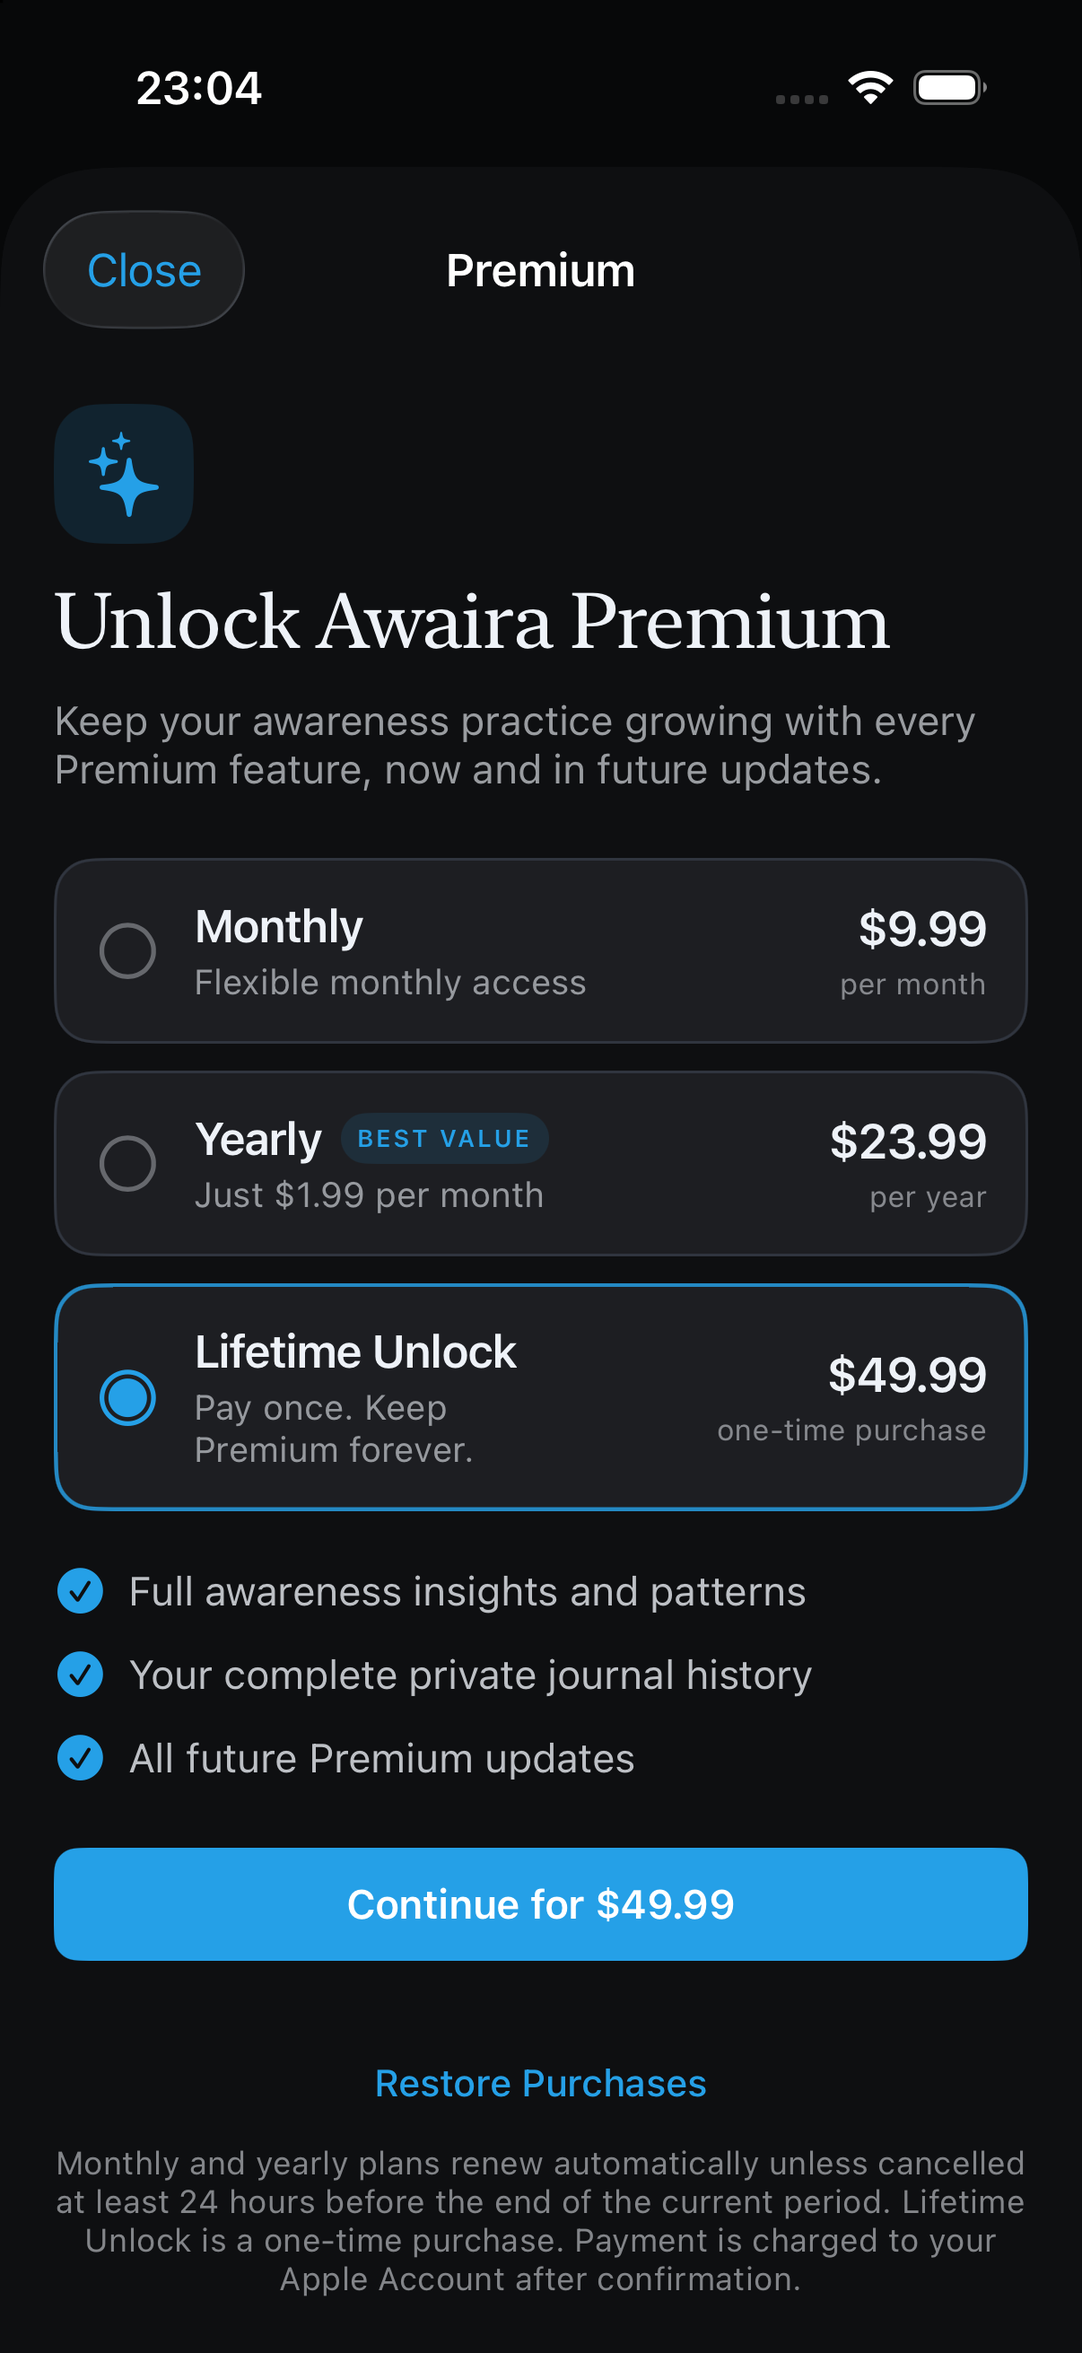
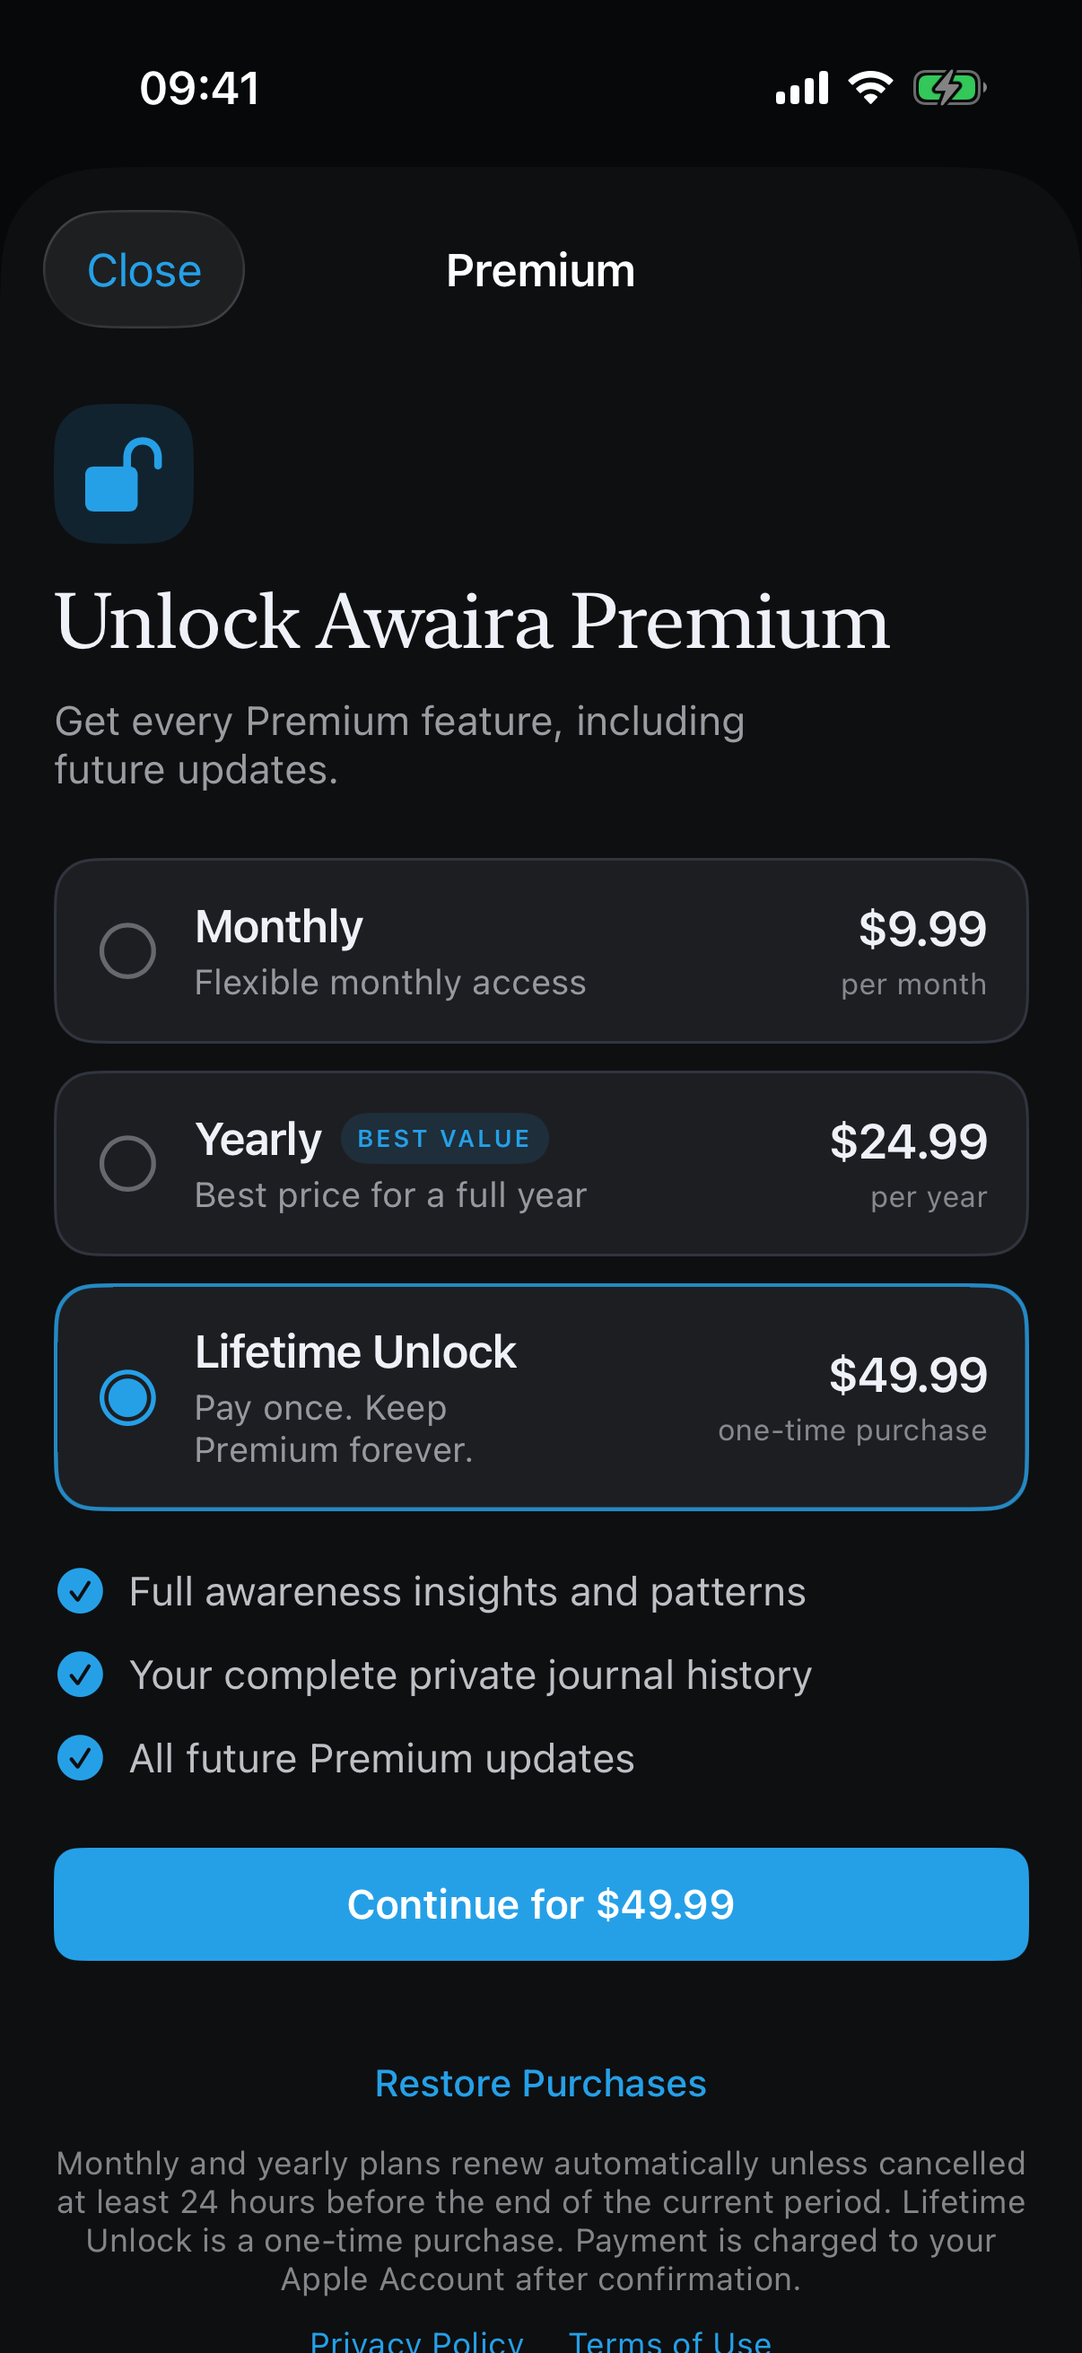
deploy: 2.2.6-ca4feed2 2026-09-24 17:47

diff --git a/Sources/IPhoneOnboardingView.swift b/Sources/IPhoneOnboardingView.swift
@@ -139,10 +139,10 @@ struct IPhoneOnboardingView: View {
 
     private var nudgePage: some View {
         VStack(alignment: .leading, spacing: 18) {
-            stepTitle("Pick your gentle nudge", helper: "Choose any combination. Awaira only uses the options you check, and you can change them at any time in Settings.")
+            stepTitle("Choose your cues", helper: "Choose any combination. Awaira only uses the options you check, and you can change them at any time in Settings.")
             nudgeToggle(symbol: "iphone.radiowaves.left.and.right", title: "Vibrate", detail: "Buzz while a hand stays near your face.", color: .orange, isOn: $vibrateEnabled)
             nudgeToggle(symbol: "waveform", title: "Voice", detail: "Play the same soft calming tone used in the desktop app.", color: .purple, isOn: $voiceEnabled)
-            nudgeToggle(symbol: "rectangle.on.rectangle", title: "Blur screen", detail: "Soften the screen with an encouraging cue while Awaira is open.", color: .mint, isOn: $blurEnabled)
+            nudgeToggle(symbol: "rectangle.on.rectangle", title: "Blur screen", detail: "Dim the screen briefly while Awaira is open.", color: .mint, isOn: $blurEnabled)
         }
         .padding(.top, 30)
     }
@@ -343,21 +343,21 @@ private struct OnboardingQuestion {
 
 private let onboardingSteps: [OnboardingStep] = {
     let pages: [EducationPage] = [
-        .init(symbol: "hand.raised.fill", accent: .indigo, title: "Notice a moment sooner.", body: "Awaira notices hand-to-face movements while you work, study, read, or watch videos. It cannot tell why a movement happened or label it."),
-        .init(symbol: "eye.fill", accent: .mint, title: "An optional moment of awareness.", body: "A calm cue can make a hand-to-face movement easier to notice. You choose which cues to use and can change them at any time."),
-        .init(symbol: "brain.head.profile", accent: .orange, title: "No judgement, no diagnosis.", body: "A movement is just a movement. Awaira does not diagnose a condition or decide what you intended to do."),
-        .init(symbol: "chart.line.uptrend.xyaxis", accent: .green, title: "Private patterns, if you want them.", body: "Your on-device history can help you reflect on the moments you choose to notice. It is not a score or a measure of your health."),
-        .init(symbol: "arrow.uturn.backward.circle.fill", accent: .cyan, title: "Here's what happens, step by step.", body: "You reach up. Awaira notices. A gentle visual cue appears—not a blocker, not an alarm. You lower your hand and carry on."),
-        .init(symbol: "hand.point.up.left.fill", accent: .yellow, title: "A movement is just a movement.", body: "Thinking, resting your chin, scratching an itch, and adjusting glasses are all normal. A cue is only an invitation to notice, never a judgement or health conclusion."),
+        .init(symbol: "hand.raised.fill", accent: .indigo, title: "Notice a moment sooner.", body: "Awaira notices hand to face movements while you work, study, read, or watch videos. It cannot tell why a movement happened or label it."),
+        .init(symbol: "eye.fill", accent: .mint, title: "Optional cues.", body: "A calm cue can make a hand to face movement easier to notice. You choose which cues to use and can change them at any time."),
+        .init(symbol: "brain.head.profile", accent: .orange, title: "Awaira doesn't diagnose.", body: "A movement is just a movement. Awaira does not diagnose a condition or decide what you intended to do."),
+        .init(symbol: "chart.line.uptrend.xyaxis", accent: .green, title: "Your history stays private.", body: "Your on-device history can help you reflect on the moments you choose to notice. It is not a score or a measure of your health."),
+        .init(symbol: "arrow.uturn.backward.circle.fill", accent: .cyan, title: "How it works", body: "When your hand moves toward your face, Awaira shows a short visual cue. Lower your hand and carry on."),
+        .init(symbol: "hand.point.up.left.fill", accent: .yellow, title: "Most touches are normal.", body: "Thinking, resting your chin, scratching an itch, and adjusting glasses are all normal. A cue just helps you notice. It isn't a judgement or a health conclusion."),
         // The permission sentence names the camera on purpose: the detection checks a few screens
         // later ask for it, and a promise made here that the flow then breaks is worse than no
         // promise at all. What has not changed is the part that matters — nothing leaves the phone.
-        .init(symbol: "lock.shield.fill", accent: .blue, title: "Privacy isn't a feature here—it's the whole design.", body: "Camera frames, detections, selected behavior, and progress history are not uploaded. Detection runs on this iPhone, even without an internet connection. In a moment Awaira will ask for the camera, so you can watch detection work before you decide anything.")
+        .init(symbol: "lock.shield.fill", accent: .blue, title: "Everything stays on your iPhone.", body: "Camera frames, detections, selected behavior, and progress history are not uploaded. Detection runs on this iPhone, even without an internet connection. In a moment Awaira will ask for the camera, so you can watch detection work before you decide anything.")
     ]
     let questions: [OnboardingQuestion] = [
-        .init(key: "behaviors", title: "What would you like to notice?", helper: "Awaira notices hand-to-face motion, not a behaviour or diagnosis.", footer: nil, options: ["Movement toward hair", "Movement toward nails", "Movement toward face or skin", "General hand-to-face awareness"], multiple: true, accent: .indigo),
+        .init(key: "behaviors", title: "What would you like to notice?", helper: "Awaira notices hand to face motion, not a behaviour or diagnosis.", footer: nil, options: ["Movement toward hair", "Movement toward nails", "Movement toward face or skin", "General hand to face awareness"], multiple: true, accent: .indigo),
         .init(key: "frequencyEstimate", title: "What's your best guess?", helper: "How many times a day does this roughly happen? Don't overthink it.", footer: nil, options: ["A few times", "Around 10–30", "Around 30–100", "More than 100", "I honestly don't know"], multiple: false, accent: .mint),
-        .init(key: "contexts", title: "When does it happen most?", helper: "We'll use this to show when you're most vulnerable to automatic habits.", footer: nil, options: ["Working on computer", "During meetings", "While coding", "While thinking", "Studying", "Watching videos", "Reading", "Gaming", "During stress", "During boredom"], multiple: true, accent: .orange),
+        .init(key: "contexts", title: "When does it happen most?", helper: "We'll use this to show when it happens most.", footer: nil, options: ["Working on computer", "During meetings", "While coding", "While thinking", "Studying", "Watching videos", "Reading", "Gaming", "During stress", "During boredom"], multiple: true, accent: .orange),
         .init(key: "goal", title: "What would feel useful?", helper: "", footer: nil, options: ["Notice patterns", "Take a pause", "Choose a cue", "Keep a private reflection"], multiple: false, accent: .purple)
     ]
     // The four checks go last before the cue picker: by then the person knows what Awaira watches

diff --git a/Sources/MobileDetectionCheck.swift b/Sources/MobileDetectionCheck.swift
@@ -6,7 +6,7 @@ import UIKit
 ///
 /// They sit at the end of onboarding, just before the cue picker: see yourself found, make the
 /// movement on purpose and watch it register, feel and hear the alert, then a summary. Choosing a
-/// cue is a blind choice otherwise — nobody has yet seen a hand-to-face movement register.
+/// cue is a blind choice otherwise — nobody has yet seen a hand to face movement register.
 ///
 /// This is the one place the camera is shown back. Nothing these screens see is recorded: the
 /// detector runs in `calibrating` mode for the whole of the rest of onboarding, so a rehearsed
@@ -97,7 +97,7 @@ struct MobileDetectionCheckView: View {
     private var title: String {
         switch page {
         case .camera:   return "Let's test detection"
-        case .movement: return "Try a hand-to-face movement"
+        case .movement: return "Try a hand to face movement"
         case .alert:    return "Test the alert"
         case .summary:  return "You're ready!"
         }
@@ -106,11 +106,11 @@ struct MobileDetectionCheckView: View {
     private var subtitle: String {
         switch page {
         case .camera:
-            return "Awaira watches for hand movements towards your face — chin, mouth, hair, nose. This takes a few seconds."
+            return "Awaira watches for hand movements towards your chin, mouth, hair, or nose. This takes a few seconds."
         case .movement:
-            return "Now move your hand towards your face — touch your chin or mouth, for example. Awaira should detect it."
+            return "Now move your hand towards your face, for example to your chin or mouth. Awaira should detect it."
         case .alert:
-            return "When a hand-to-face movement is detected, Awaira can nudge you with a short sound and a buzz."
+            return "When a hand to face movement is detected, Awaira can nudge you with a short sound and a buzz."
         case .summary:
             return "Here's what's working. Next, pick the cues you want Awaira to use."
         }
@@ -166,7 +166,7 @@ struct MobileDetectionCheckView: View {
             .offset(x: rect.minX, y: rect.minY)
 
         if caught {
-            Label("Hand-to-face detected", systemImage: "exclamationmark.circle.fill")
+            Label("Hand to face detected", systemImage: "exclamationmark.circle.fill")
                 .font(.caption2.weight(.semibold))
                 .foregroundStyle(.white)
                 .padding(.horizontal, 9)
@@ -201,7 +201,7 @@ struct MobileDetectionCheckView: View {
 
     private var bubble: some View {
         VStack {
-            Label("Hey, keep going 💙", systemImage: "speaker.wave.2.fill")
+            Label("Keep going", systemImage: "speaker.wave.2.fill")
                 .font(.footnote.weight(.semibold))
                 .foregroundStyle(.black)
                 .padding(.horizontal, 14)
@@ -330,7 +330,7 @@ struct MobileDetectionCheckView: View {
                 Text(title)
                     .font(.body.weight(.semibold))
                     .foregroundStyle(passed ? .primary : .secondary)
-                Text(passed ? done : "Not tested — you can continue anyway")
+                Text(passed ? done : "Not tested. You can continue anyway.")
                     .font(.footnote)
                     .foregroundStyle(.secondary)
             }

diff --git a/Sources/PremiumPaywallView.swift b/Sources/PremiumPaywallView.swift
@@ -94,7 +94,7 @@ struct PremiumPaywallView: View {
 
     private var hero: some View {
         VStack(alignment: .leading, spacing: 11) {
-            Image(systemName: "sparkles")
+            Image(systemName: "lock.open.fill")
                 .font(.system(size: 28, weight: .semibold))
                 .foregroundStyle(AwairaPalette.accent)
                 .frame(width: 52, height: 52)
@@ -103,7 +103,7 @@ struct PremiumPaywallView: View {
             Text("Unlock Awaira Premium")
                 .awairaDisplay(29)
                 .foregroundStyle(AwairaPalette.text)
-            Text("Keep your awareness practice growing with every Premium feature, now and in future updates.")
+            Text("Get every Premium feature, including future updates.")
                 .awairaCaption(15)
                 .foregroundStyle(AwairaPalette.ink.opacity(0.62))
                 .fixedSize(horizontal: false, vertical: true)
@@ -231,7 +231,7 @@ private struct PremiumPlan: Identifiable {
                                      reviewPrice: "$9.99", period: "per month", badge: nil)
     static let yearly = PremiumPlan(id: PremiumStore.yearlyProductID,
                                     title: "Yearly", detail: "Best price for a full year",
-                                    reviewPrice: "$23.99", period: "per year", badge: "BEST VALUE")
+                                    reviewPrice: "$24.99", period: "per year", badge: "BEST VALUE")
     static let lifetime = PremiumPlan(id: PremiumStore.lifetimeProductID,
                                       title: "Lifetime Unlock", detail: "Pay once. Keep Premium forever.",
                                       reviewPrice: "$49.99", period: "one-time purchase", badge: nil)

diff --git a/Tests/AwairaUITests/StoreScreenshotCaptureTests.swift b/Tests/AwairaUITests/StoreScreenshotCaptureTests.swift
@@ -13,13 +13,18 @@ final class StoreScreenshotCaptureTests: XCTestCase {
         capture(app, named: "03-learn-demo")
     }
 
-    func testCaptureLifetimeUnlockReviewScreen() {
-        let app = XCUIApplication()
-        app.launchArguments = ["-UITest", "-ScreenshotPaywall"]
-        app.launch()
+    /// One App Review image per product, each showing the genuine paywall with that plan selected.
+    func testCapturePremiumReviewScreens() {
+        let plans = [("Monthly", "-ScreenshotMonthly"), ("Yearly", nil), ("Lifetime", "-ScreenshotLifetime")]
+        for (name, argument) in plans {
+            let app = XCUIApplication()
+            app.launchArguments = ["-UITest", "-ScreenshotPaywall"] + [argument].compactMap { $0 }
+            app.launch()
 
-        XCTAssertTrue(app.otherElements["premiumPaywall"].waitForExistence(timeout: 3))
-        capture(app, named: "04-lifetime-unlock-review")
+            XCTAssertTrue(app.otherElements["premiumPaywall"].waitForExistence(timeout: 3))
+            capture(app, named: "Awaira-\(name)-review")
+            app.terminate()
+        }
     }
 
     private func capture(_ app: XCUIApplication, named: String) {

diff --git a/Sources/MobileJournal.swift b/Sources/MobileJournal.swift
@@ -58,7 +58,7 @@ struct MobileJournalView: View {
 
     var body: some View {
         MobilePage(title: "Journal",
-                   subtitle: "A private place to notice what matters.",
+                   subtitle: "Private notes about your day.",
                    accessory: AnyView(MobileBrandRow { composeButton })) {
             reflectionPrompt
             privacyNote
@@ -122,7 +122,7 @@ struct MobileJournalView: View {
             MobileEyebrow(text: "RECENT REFLECTIONS")
                 .padding(.top, 7)
             if groups.isEmpty {
-                MobileEmptyNote(text: "Your private moments will appear here when you choose to capture them.",
+                MobileEmptyNote(text: "Your entries will appear here.",
                                 symbol: "square.and.pencil")
                     .awairaCard(padding: 18)
             } else {

diff --git a/Sources/MobileInsightsView.swift b/Sources/MobileInsightsView.swift
@@ -11,7 +11,7 @@ struct MobileInsightsView: View {
 
     var body: some View {
         MobilePage(title: "Patterns",
-                   subtitle: "Your week, brought into focus.",
+                   subtitle: "Your week at a glance.",
                    titleSize: 32,
                    accessory: AnyView(brandRow)) {
             MobileSegmented(options: PatternRange.allCases, selection: $range, label: \.title, compact: true)
@@ -257,7 +257,7 @@ struct MobileInsightsView: View {
     }
 
     private var rhythmNote: String {
-        guard let peak = peakHour else { return "As your days fill in, this curve will show when activity tends to gather." }
+        guard let peak = peakHour else { return "After a few days of tracking, this chart will show your busiest hours." }
         return "Activity peaks around \(Self.hourText(peak))."
     }
 

diff --git a/Sources/PremiumStore.swift b/Sources/PremiumStore.swift
@@ -19,9 +19,9 @@ final class PremiumStore: ObservableObject {
     }
 
     static let monthlyProductID = productID(for: "AwairaMonthlyProductID",
-                                             fallback: "com.awaira.ios.premium.monthly")
+                                             fallback: "com.awaira.ios.sub.monthly")
     static let yearlyProductID = productID(for: "AwairaYearlyProductID",
-                                            fallback: "com.awaira.ios.premium.yearly")
+                                            fallback: "com.awaira.ios.sub.yearly")
     static let lifetimeProductID = productID(for: "AwairaLifetimeProductID",
                                               fallback: "com.awaira.app.lifetime")
     static let productIDs = [monthlyProductID, yearlyProductID, lifetimeProductID]

diff --git a/Sources/MobileSettingsView.swift b/Sources/MobileSettingsView.swift
@@ -69,7 +69,7 @@ struct MobileSettingsView: View {
                             showingPremiumPaywall = true
                         } label: {
                             HStack {
-                                Label("Unlock Awaira Premium", systemImage: "sparkles")
+                                Label("Unlock Awaira Premium", systemImage: "lock.open.fill")
                                 Spacer()
                                 Image(systemName: "chevron.right")
                                     .scaledFont(13, weight: .semibold)

diff --git a/Sources/MobileAchievementsView.swift b/Sources/MobileAchievementsView.swift
@@ -12,7 +12,7 @@ struct MobileAchievementsView: View {
 
     var body: some View {
         MobilePage(title: "Badges",
-                   subtitle: "A private record of awareness and progress — never a leaderboard.",
+                   subtitle: "Your badges and progress. Only you can see them.",
                    accessory: AnyView(brandRow)) {
             ForEach(MobileAchievementDifficulty.allCases) { difficulty in
                 collection(for: difficulty)

diff --git a/Sources/DimOverlay.swift b/Sources/DimOverlay.swift
@@ -34,9 +34,9 @@ struct DimOverlay: View {
     }
 
     private static let cheers = [
-        "Hand down — you noticed.",
+        "Hand down. You noticed.",
         "Take a breath.",
-        "You caught it. That's the work.",
+        "You caught it.",
         "Let your hand rest.",
         "Nice catch.",
         "Back to what you were doing.",

diff --git a/README.md b/README.md
@@ -1,7 +1,7 @@
 # Awaira for iPhone
 
 Awaira is an on-device awareness tool for hair pulling, nail biting, skin picking, and general
-face touching. It uses the front camera to detect hand-to-face movements and presents gentle cues
+face touching. It uses the front camera to detect hand to face movements and presents gentle cues
 that help people notice the moment before an automatic habit continues.
 
 Camera frames are analyzed on the iPhone and discarded after analysis. They are never uploaded.
